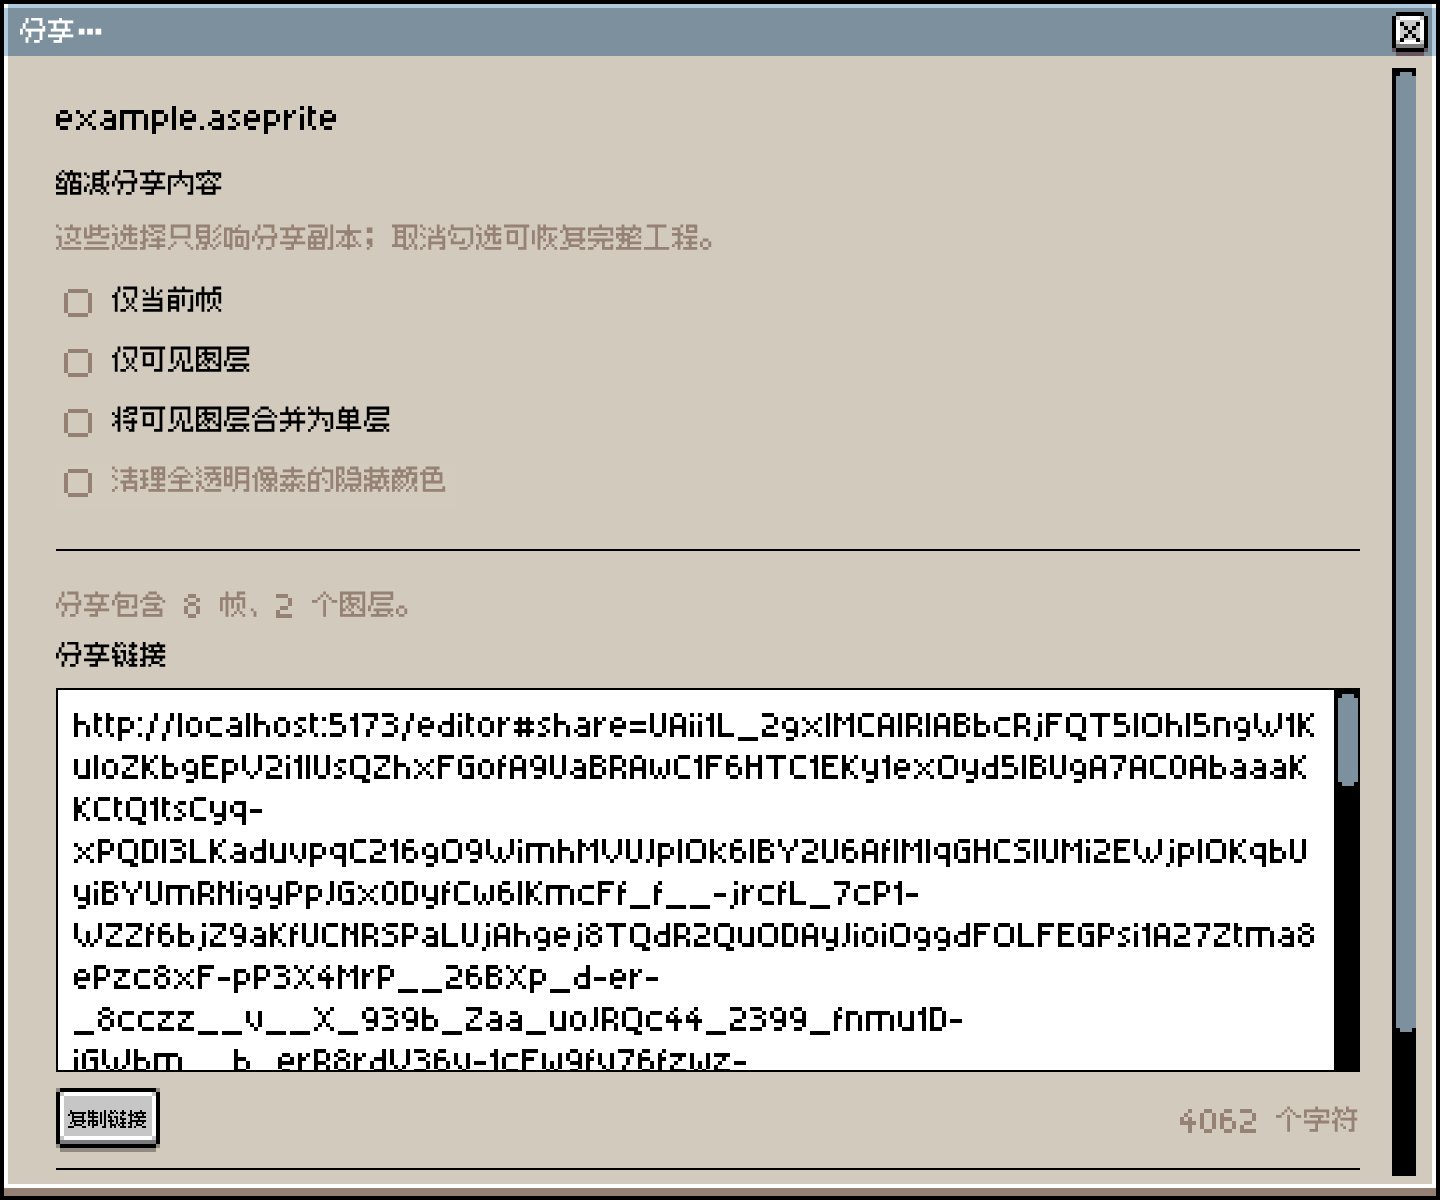
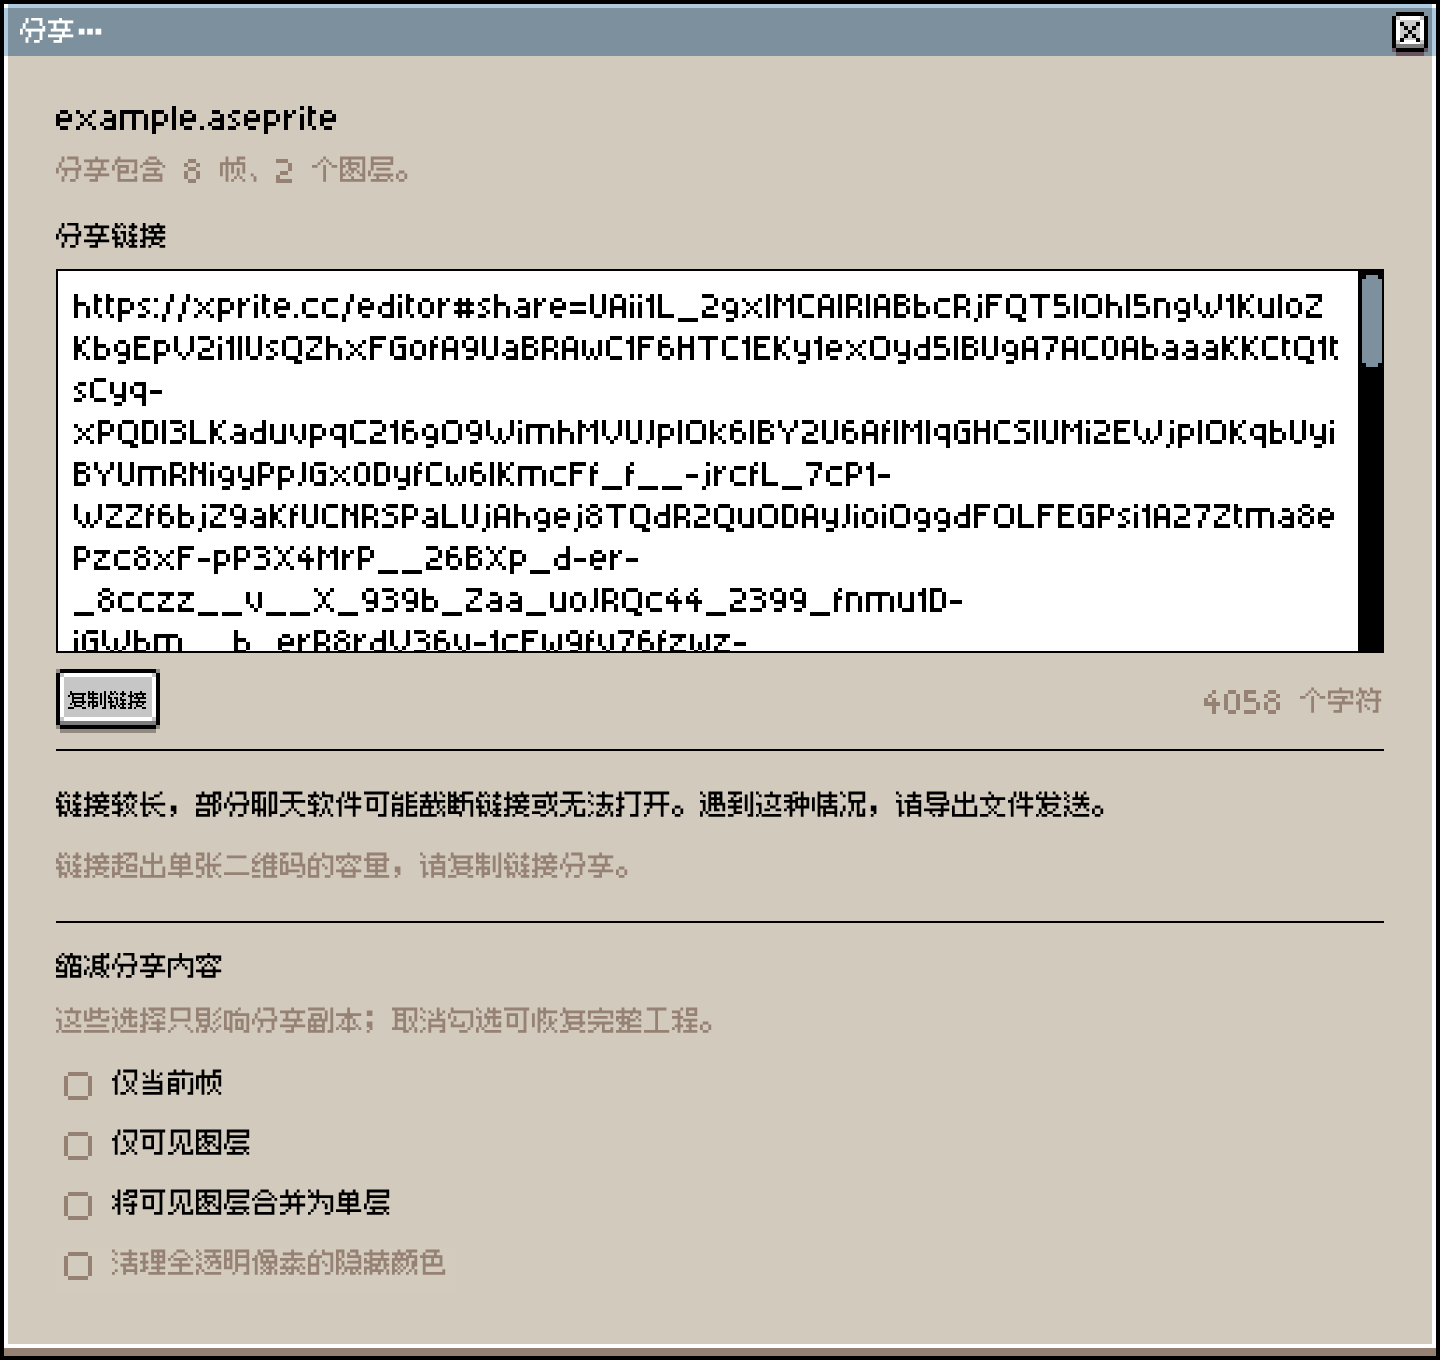
content(zh-CN): show the production share link in how-it-works

diff --git a/apps/growth/content/product/how-it-works.zh-CN.md b/apps/growth/content/product/how-it-works.zh-CN.md
@@ -201,7 +201,7 @@ OPFS 的读写放在专门的 Worker 里，用同步访问句柄（`createSyncAc
 
 「文件」→「分享…」不上传任何东西。作品被压缩后写进链接 `#share=` 之后的部分（URL 片段）。浏览器访问网址时不会把 `#` 之后的内容发给服务器，所以分享不经过任何服务器。
 
-![「分享…」对话框：可以只分享当前帧或可见图层，下方是生成的链接和字符数（截图来自本地开发环境）](images/share-dialog.png)
+![「分享…」对话框：上方是以 https://xprite.cc/editor#share= 开头的分享链接和字符数，下方可以选择只分享当前帧或可见图层](images/share-dialog.png)
 
 ```article-diagram
 {
